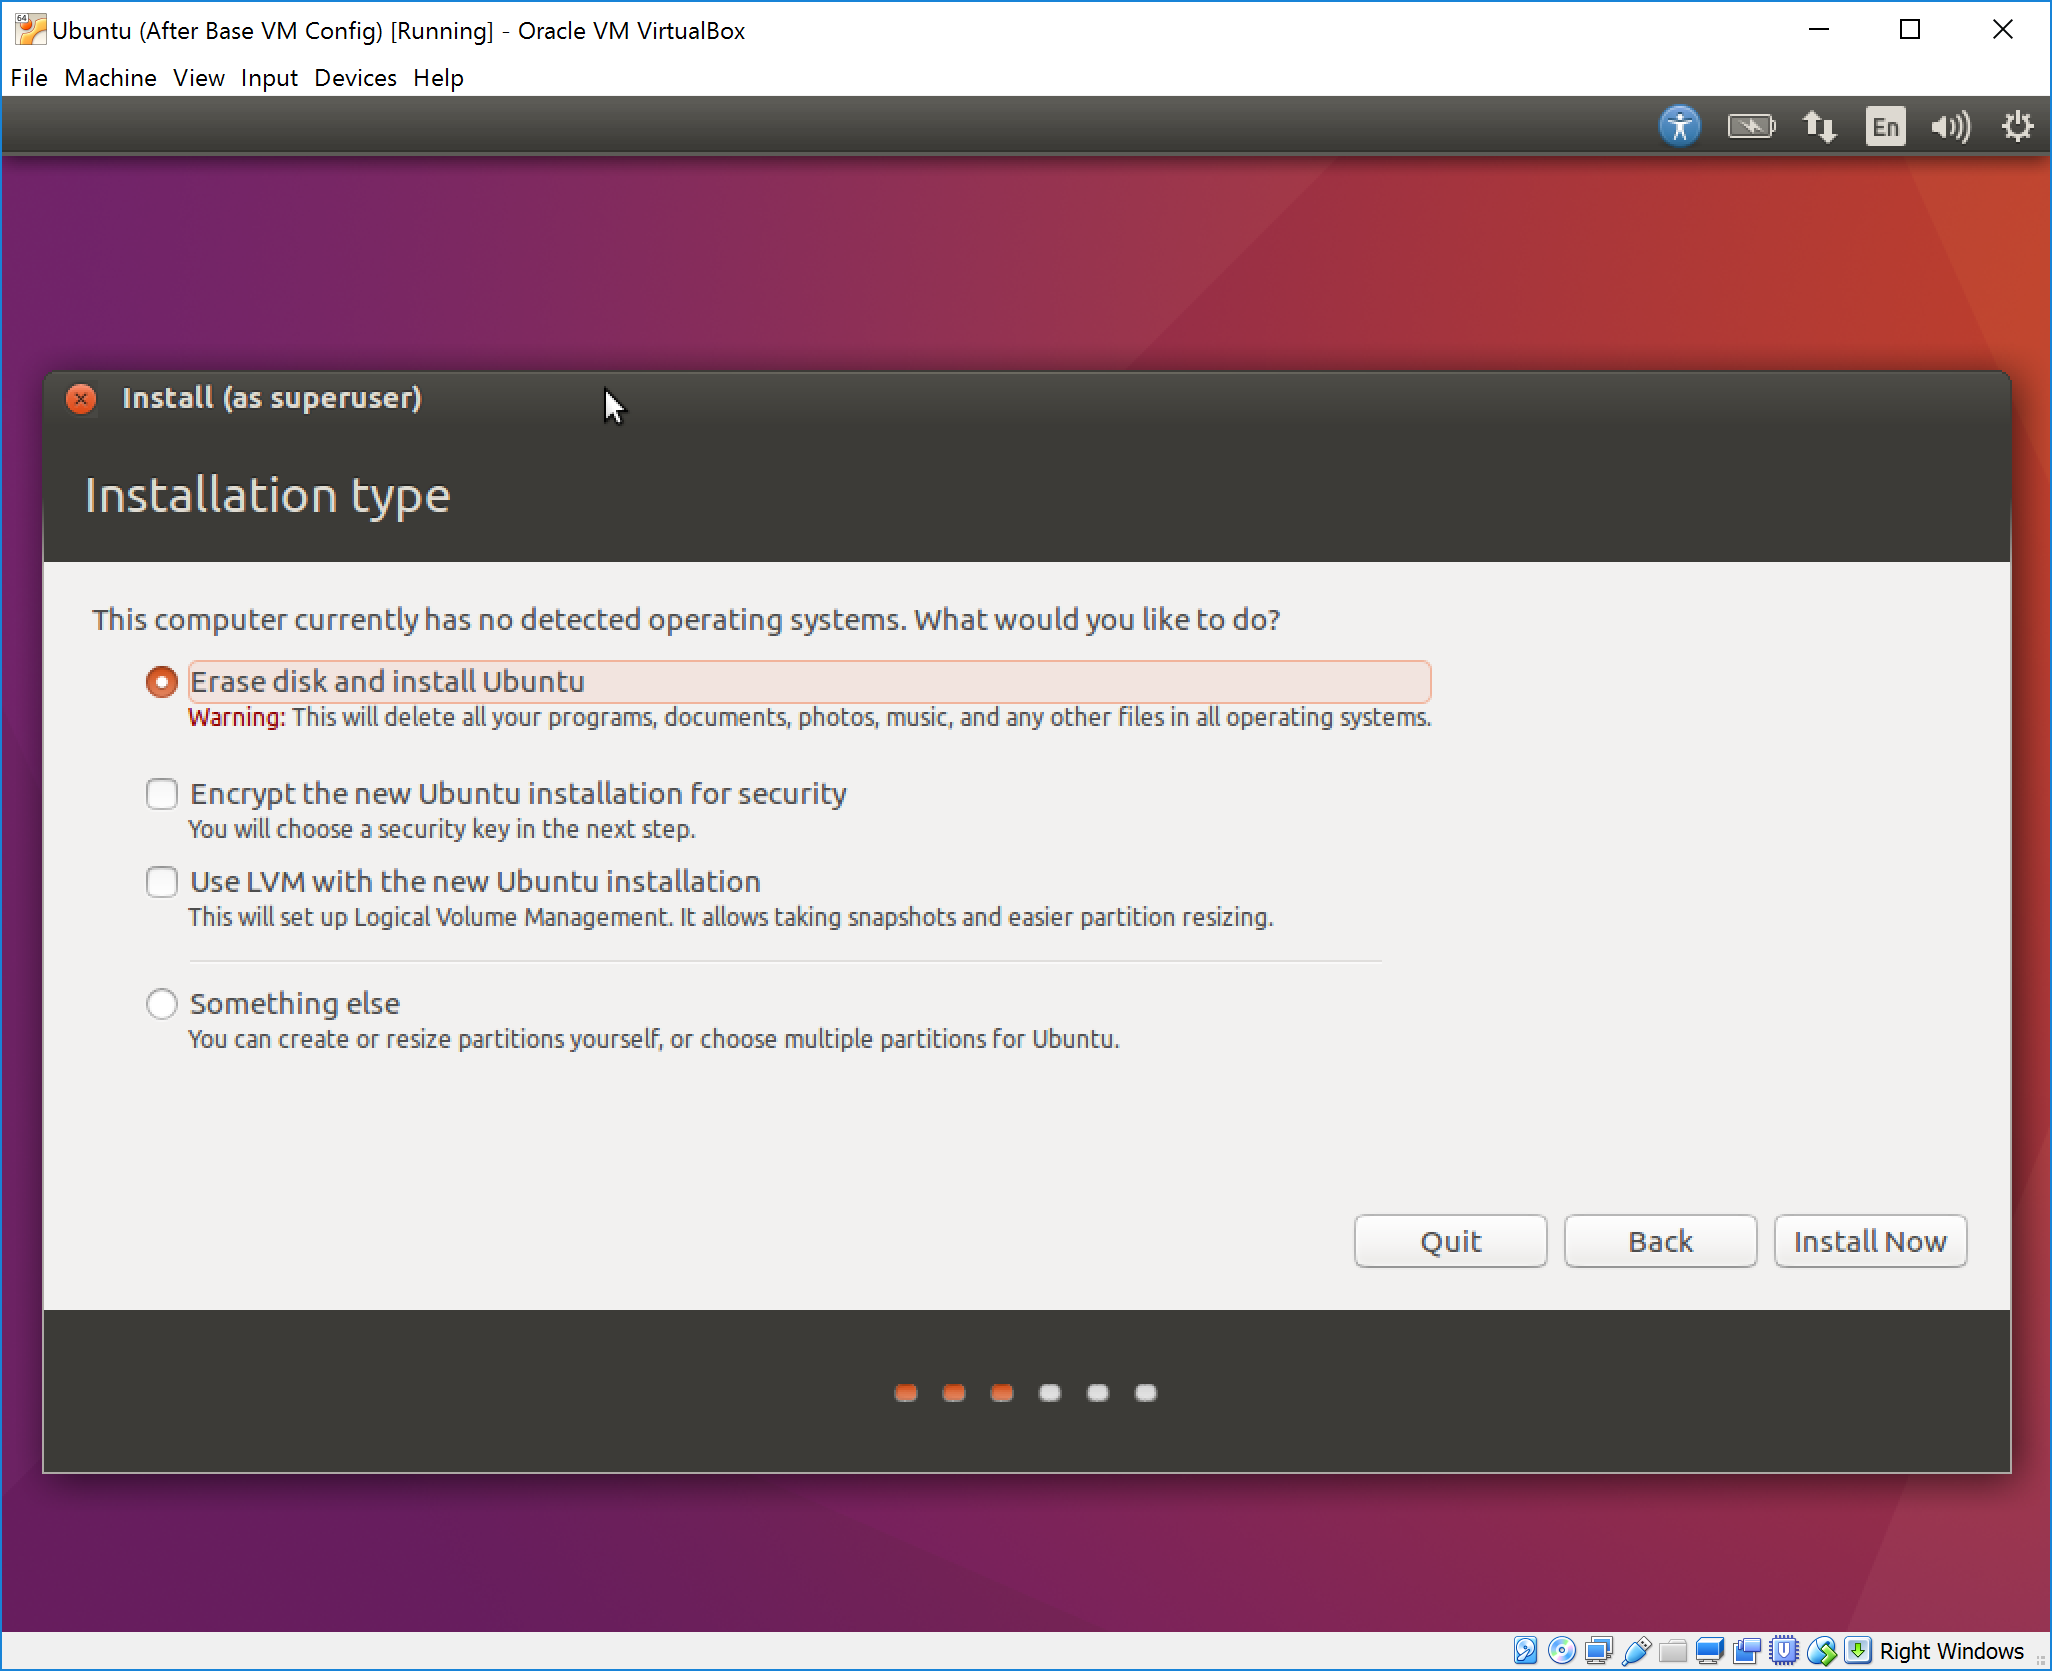
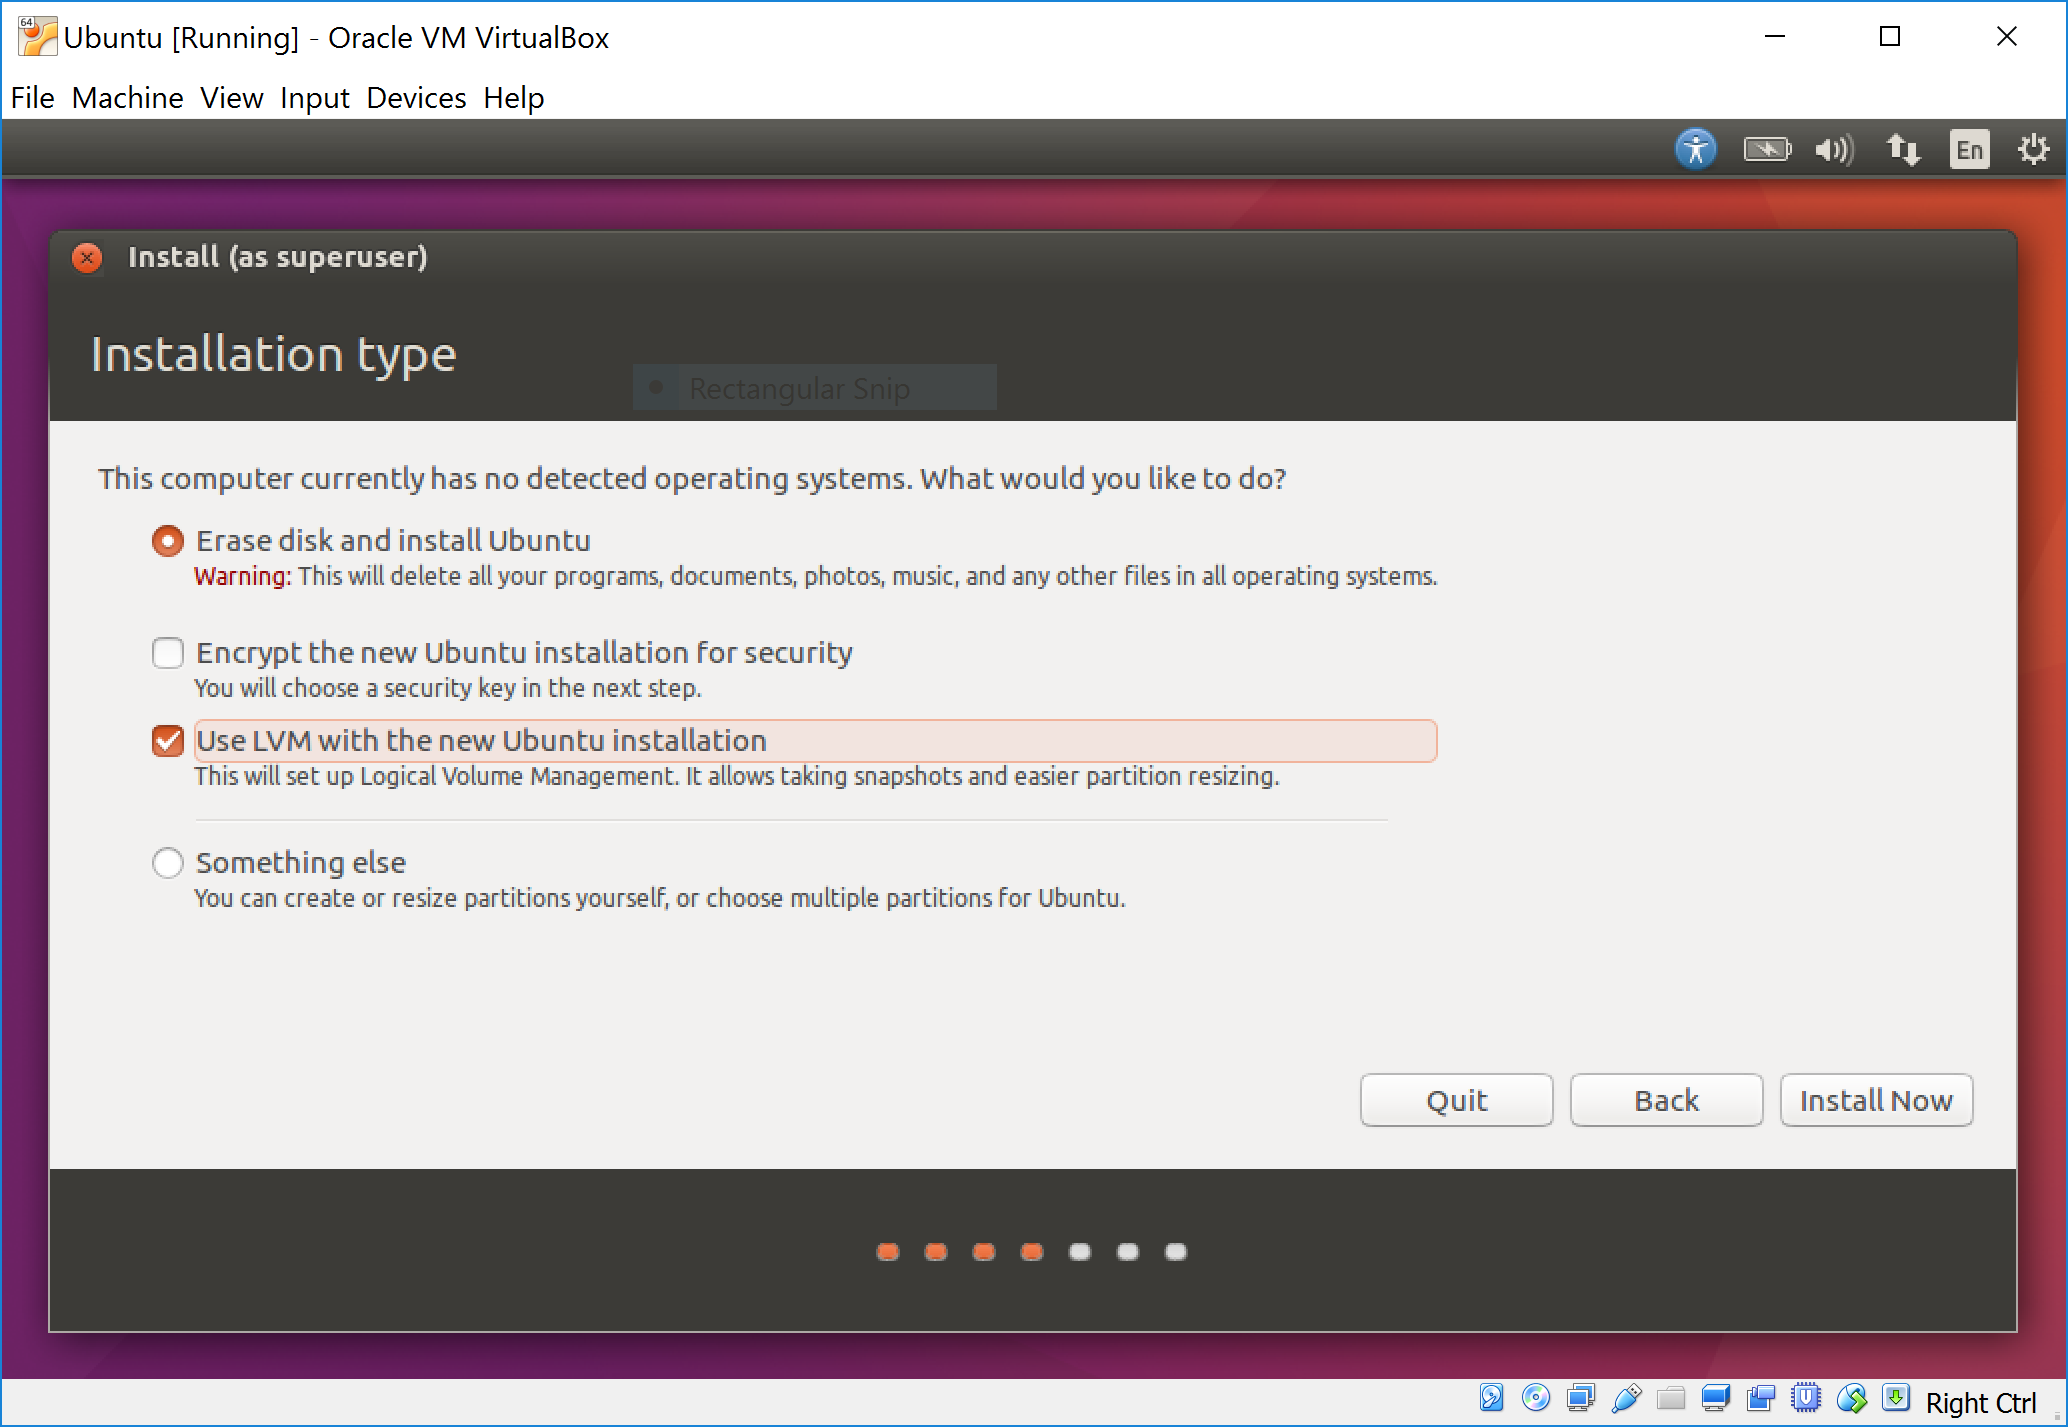
closes #9 (now we use LVM on installation so the disks can more easily be resized post-install to avoid the accidental 8GiB issue from workshop #2)

diff --git a/Part1.md b/Part1.md
@@ -6,9 +6,9 @@ First we'll get a basic Ubuntu Linux Installation up and running.
 
 ## Prerequisites
 
-1. Download the latest [Ubuntu Desktop 64-bit ISO](https://launchpad.net/ubuntu/+cdmirrors) (e.g. `ubuntu-16.04.1-desktop-amd64.iso`) from your local Ubuntu mirror (so as to save your quota and to download it as fast as possible). We're using _Ubuntu Linux_ as it's the primary Linux distribution being used by the .NET Core team.
+1. Download the latest [Ubuntu Desktop 64-bit ISO](https://launchpad.net/ubuntu/+cdmirrors) (e.g. `ubuntu-16.04.1-desktop-amd64.iso`) from your local Ubuntu mirror so as to save your quota and to download it as fast as possible. We're using _Ubuntu Linux_ as it's the primary Linux distribution being used by the .NET Core team.
 
-2. Download the latest [VirtualBox installer](https://www.virtualbox.org/wiki/Downloads) for your operating system of choice (e.g. Windows `VirtualBox-5.1.4-110228-Win.exe` or MacOSX `VirtualBox-5.1.4-110228-OSX.dmg`). Also download the corresponding version of the [extension pack](https://www.virtualbox.org/wiki/Downloads) (e.g. for all operating systems `Oracle_VM_VirtualBox_Extension_Pack-5.1.4-110228.vbox-extpack`). This extension pack contains host drivers for USB etc.
+2. Download the latest [VirtualBox installer](https://www.virtualbox.org/wiki/Downloads) for your operating system of choice e.g. Windows `VirtualBox-5.1.4-110228-Win.exe` or MacOSX `VirtualBox-5.1.4-110228-OSX.dmg`. Also download the corresponding version of the [extension pack](https://www.virtualbox.org/wiki/Downloads) e.g. for all operating systems `Oracle_VM_VirtualBox_Extension_Pack-5.1.4-110228.vbox-extpack`. This extension pack contains host drivers for USB etc.
 
 ## Installing and configuring VirtualBox
 
@@ -20,9 +20,9 @@ First we'll get a basic Ubuntu Linux Installation up and running.
 
 4. Update the "host key combination" in VirtualBox Preferences as follows:
 
-  a. (Macintosh) __Preferences... => Input => Virtual Machine__ and update the __Host Key Combination__ to _Right COMMAND_.
+  a. (MacOS) __Preferences... => Input => Virtual Machine__ and update the __Host Key Combination__ to _Right COMMAND_.
 
-  b. (Wintel) __File => Preferences... => Input => Virtual Machine__ and update the __Host Key Combination__ to _Right CTRL_.
+  b. (Windows) __File => Preferences... => Input => Virtual Machine__ and update the __Host Key Combination__ to _Right CTRL_.
 
   ![2-virtualbox-host-key](Part1/2-virtualbox-host-key.png)
 
@@ -50,9 +50,11 @@ First we'll get a basic Ubuntu Linux Installation up and running.
 
   ![7-dynamically-allocated-disk](Part1/7-dynamically-allocated-disk.png)
 
-7. Determine the maximum size for your __dynamically allocated disk__. I recommend setting this to a reasonable size which is less than the currently available space on the host disk e.g. in my case I have `182GiB` free so I set the maximum disk size to `128GB`. The other option is to set it to `2TB` and monitor actual `.vdi` file size yourself. This maximum size can be altered later via the command line tools so it's not _set in stone_.
+7. Determine the maximum size for your __dynamically allocated disk__. I recommend setting this to a reasonable size which is less than the currently available space on the host disk e.g. in my case I have `182GiB` free so I __set the maximum disk size to `128GB`__. The other option is to set it to `2TB` and monitor actual `.vdi` file size yourself. This maximum size can be altered later via the command line tools so it's not _set in stone_.
 
 8. Once you are happy with all your settings click __create__ to build your new VM and VHDD.
+
+__NOTE: Make sure you have set the maximum disk size to at least 128GB before continuing.__
 
   ![8-hdd-size](Part1/8-hdd-size.png)
 
@@ -92,7 +94,7 @@ You now have a new __powered off__ VM so we want to update the configuration usi
 
 #### System => Acceleration
 
-1. Set __paravirtualization interface__ to _KVM_ which is the recommended setting for Linux guests. When using a Windows guest you should set it to _Hyper-V_.
+1. Set __paravirtualization interface__ to _KVM_ which is the [recommended setting](http://superuser.com/questions/945910/how-to-select-paravirtualization-interface-in-virtual-box) for Linux guests. When using a Windows guest you should set it to _Hyper-V_.
 
   ![13-system-acceleration](Part1/13-system-acceleration.png)
 
@@ -109,6 +111,8 @@ You now have a new __powered off__ VM so we want to update the configuration usi
 1. Increase the __video memory__ to the maximum available setting. In my case this is `128MB`.
 
 2. Check __enable 3D acceleration__.
+
+3. If you are on a "retina" (High-PPI display) you should set you __scale factor__ to `200%`.
 
   ![14-display-screen](Part1/14-display-screen.png)
 
@@ -154,7 +158,7 @@ __Done!__ Click __OK__ to save the VM settings.
 
   ![9-powered-off](Part1/9-powered-off.png)
 
-  __Note:__ While your new VM is booting into the installation screen, if your are using a host with a "retina" screen select __View => Scale Factor => 200%__ so you can actually see your VM while it's installing.
+  __Note:__ While your new VM is booting into the installation screen, if your are using a host with a "retina" screen make sure you have selected __View => Scale Factor => 200%__ so you can actually see your VM while it's installing.
 
 2. Once you arrive at the first screen labelled __Install__ click _Install Ubuntu_.
 
@@ -164,7 +168,7 @@ __Done!__ Click __OK__ to save the VM settings.
 
   ![20-preparing-to-install](Part1/20-preparing-to-install.png)
 
-4. To keep things simple leave the default option __Erase disk and install Ubuntu__ in place and click _install now_.
+4. To keep things simple leave the default option __Erase disk and install Ubuntu__ in place, select __Use LVM with the new Ubuntu installation__ and click _install now_.
 
   ![21-erase-disk-and-install](Part1/21-erase-disk-and-install.png)
 
@@ -182,13 +186,13 @@ __Done!__ Click __OK__ to save the VM settings.
 
 8. _Who are you?_ Use the following guide to fill in these details:
 
-  a. __Your name:__ e.g. Tod Nicholas Thomson
+  a. __Your name:__ e.g. Joe William Bloggs
 
-  b. __Your computer's name:__ e.g. apsalar
+  b. __Your computer's name:__ e.g. megatron
 
     __Note:__ Feel free to take a look at [RFC1178](https://tools.ietf.org/html/rfc1178) or __TL;DR__ Use all lower case (Unix is case-sensitive). Don't use random combinations of letters and numbers that "encode" some information about the location or function of the computer which are hard to "talk about". At the other end of the spectrum don't use names that will clash or sound like real people's names.
 
-  c. __Pick a username:__ e.g. tnt
+  c. __Pick a username:__ e.g. jwb
 
     _Note:__ The "Unix way" is to use all your initials for your username. You need to type your username a lot so it's good for it to be short.
 
@@ -212,7 +216,7 @@ __Done!__ Click __OK__ to save the VM settings.
 
 Login to your "new shiny" Linux VM and see if you can work out how to play a game of __Beneath a Steel Sky, Freeware CD Version__.
 
-The game files `bass-cd-1.2.zip` are available on the USB flash drive though you probably won't need them...
+The game files `bass-cd-1.2.zip` are available on the USB flash drive (you may be able to work out how to not need them)...
 
 You'll know you have it working when you see the following:
 

diff --git a/README.md b/README.md
@@ -59,7 +59,7 @@ I have tested the workshop with the following software versions. You mileage may
 
 ## The Workshop
 
-The workshop begins here. You have approximately 45 minutes to complete each chapter. If you complete a chapter ahead of time _please_ don't jump ahead. You should instead just explore what you have built and/or complete the extension exercise at the bottom of the chapter.
+__The workshop begins here.__ You have approximately 45 minutes to complete each chapter. If you complete a chapter ahead of time _please_ don't jump ahead. You should instead just explore what you have built and/or complete the extension exercise at the bottom of the chapter.
 
 #### 1. Ubuntu Linux Installation
 
